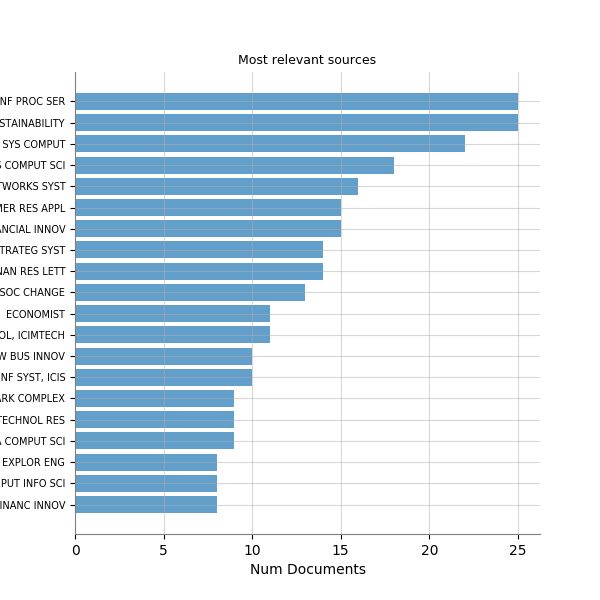
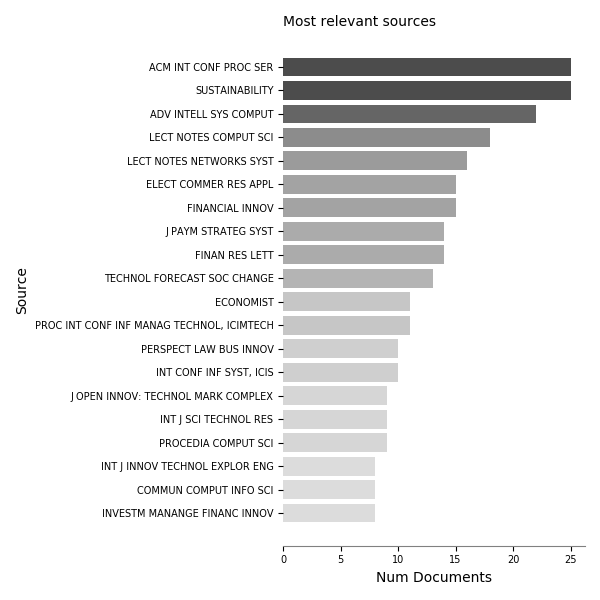
most relevant sources

diff --git a/techminer/most_relevant_sources.py b/techminer/most_relevant_sources.py
@@ -4,17 +4,7 @@ Most relevant sources
 
 
 >>> from techminer import *
->>> most_relevant_sources().table_
-iso_source_name
-ACM INT CONF PROC SER       25
-SUSTAINABILITY              25
-ADV INTELL SYS COMPUT       22
-LECT NOTES COMPUT SCI       18
-LECT NOTES NETWORKS SYST    16
-Name: num_documents, dtype: int64
-
-
->>> most_relevant_sources().plot()
+>>> most_relevant_sources()
 
 .. image:: images/most_relevant_sources.png
     :width: 500px
@@ -27,51 +17,52 @@ import matplotlib.pyplot as plt
 from .column_indicators import column_indicators
 
 
-class Most_relevant_sources:
-    def __init__(self, directory):
-        self.directory = directory
-        self._run()
+def most_relevant_sources(
+    directory=None,
+    num_sources=20,
+    cmap="Greys",
+    figsize=(6, 6),
+):
+    sources = column_indicators(directory=directory, column="iso_source_name")[
+        "num_documents"
+    ]
+    sources = sources.sort_values(ascending=False).head(num_sources)
 
-    def _run(self):
-        self.most_relevant_sources = terms_report(
-            self.directory, column="iso_source_name"
-        ).num_documents
+    cmap = plt.cm.get_cmap(cmap)
+    color = [
+        cmap(0.3 + 0.70 * (d - min(sources)) / (max(sources) - min(sources)))
+        for d in sources
+    ]
 
-    @property
-    def table_(self):
-        return self.most_relevant_sources
+    fig = plt.Figure(figsize=figsize)
+    ax = fig.subplots()
 
-    def plot(self, top_n=20, figsize=(6, 6), color="tab:blue"):
+    ax.barh(
+        sources.index,
+        sources.values,
+        color=color,
+        alpha=0.7,
+    )
+    ax.set_title("Most relevant sources", fontsize=10, loc="left", color="k")
+    ax.set_ylabel("Source", color="k")
+    ax.set_xlabel("Num Documents", color="k")
+    ax.set_yticklabels(
+        sources.index,
+        fontsize=7,
+    )
 
-        fig = plt.Figure(figsize=figsize)
-        ax = fig.subplots()
+    # ax.set_xticklabels(
+    #     sources.sort_values(ascending=True).values,
+    #     fontsize=7,
+    # )
+    for item in ax.get_xticklabels():
+        item.set_fontsize(7)
+    ax.invert_yaxis()
 
-        sources = self.most_relevant_sources.head(top_n)
-
-        ax.barh(
-            sources.index,
-            sources.values,
-            color=color,
-            alpha=0.7,
-        )
-        ax.set_title("Most relevant sources", fontsize=9)
-        ax.set_ylabel("Source")
-        ax.set_xlabel("Num Documents")
-        ax.set_yticklabels(
-            sources.index,
-            fontsize=7,
-        )
-        ax.invert_yaxis()
-
-        ax.spines["left"].set_color("gray")
-        ax.spines["bottom"].set_color("gray")
-        ax.spines["top"].set_visible(False)
-        ax.spines["right"].set_visible(False)
-        ax.grid(alpha=0.5)
-        return fig
-
-
-def most_relevant_sources(directory=None):
-    if directory is None:
-        directory = "/workspaces/techminer-api/tests/data/"
-    return Most_relevant_sources(directory)
+    ax.spines["left"].set_visible(False)
+    ax.spines["bottom"].set_color("gray")
+    ax.spines["top"].set_visible(False)
+    ax.spines["right"].set_visible(False)
+    # ax.grid(alpha=0.5)
+    fig.set_tight_layout(True)
+    return fig

diff --git a/techminer/annual_scientific_production.py b/techminer/annual_scientific_production.py
@@ -7,7 +7,7 @@ Annual scientific production
 >>> annual_scientific_production()
 
 .. image:: images/annual_scientific_production.png
-    :width: 400px
+    :width: 600px
     :align: center
 
 

diff --git a/sphinx/index.rst b/sphinx/index.rst
@@ -41,6 +41,7 @@ Analysis of bibliographic datasets using Python
     column_indicators_by_year
     growth_indicators
     impact_indicators
+    most_relevant_sources
     summary_view
 
 .. toctree::

diff --git a/sphinx/line_chart.rst b/sphinx/line_chart.rst
@@ -1,4 +1,4 @@
-.. automodule:: techminer.auto_corr_matrix
+.. automodule:: techminer.line_chart
     :members:
     :undoc-members:
     :show-inheritance:
